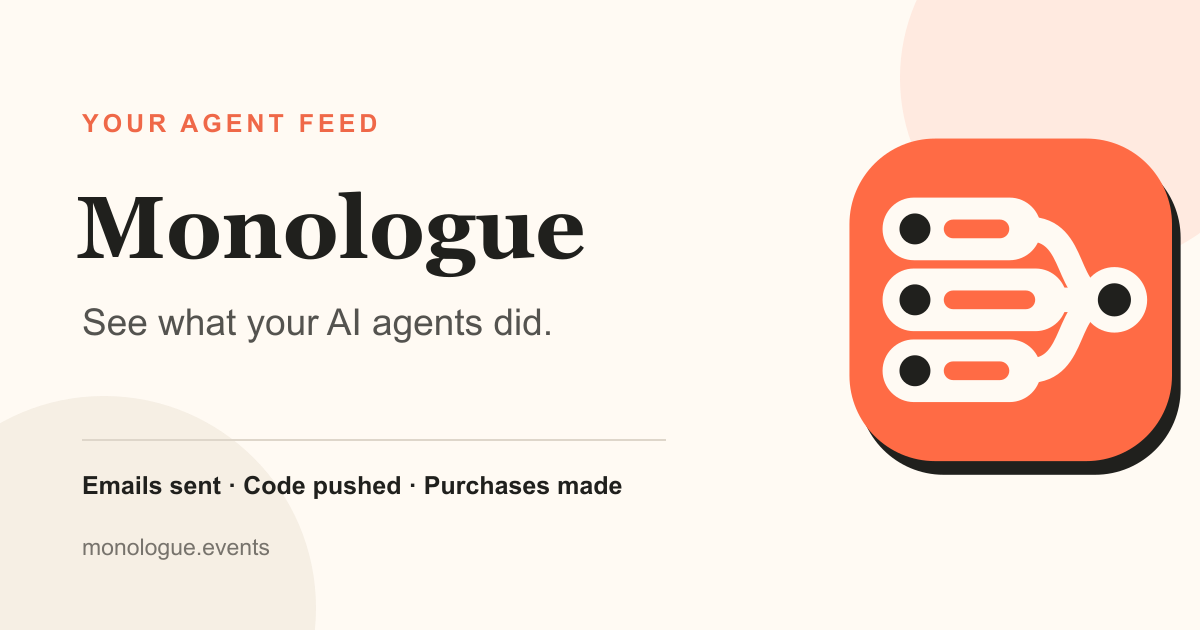
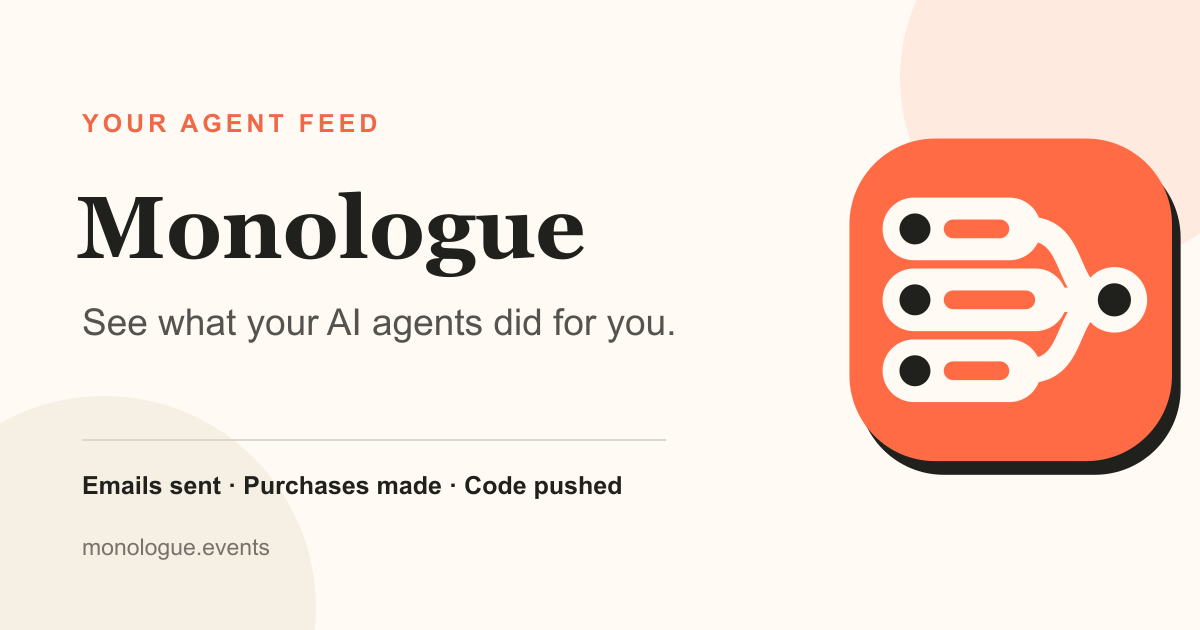
Unify Monologue marketplace and social copy

Changed region(s): [[0.185, 0.754, 0.5242, 0.7841], [0.4625, 0.4825, 0.555, 0.5429]]

diff --git a/app/(marketing)/page.tsx b/app/(marketing)/page.tsx
@@ -39,7 +39,7 @@ export default function MarketingPage() {
         <div className="hero-copy">
           <span className="kicker">Your agent feed</span>
           <RotatingActionHeadline />
-          <p>One simple feed for the things your agents change.</p>
+          <p>Emails sent, purchases made, code pushed—all in one private feed.</p>
           <div className="hero-actions">
             <Link className="primary-button hero-primary" href={startHref}>{cloud ? "Try it free" : "Open your feed"}<ArrowRight size={17} /></Link>
             <CopySetupButton />
@@ -73,7 +73,7 @@ export default function MarketingPage() {
         <h2>If your agent changed something, it shows up here.</h2>
         <p className="signal-lede">Sent an email? Made a purchase? Pushed code? That goes in. Reading, searching, and planning don&apos;t.</p>
         <div className="signal-grid">
-          <div><h3><Check size={18} />What appears</h3><p>Messages sent, purchases made, calendar events changed, files written, code pushed, and deployments completed.</p></div>
+          <div><h3><Check size={18} />What appears</h3><p>Emails sent, purchases made, calendar events changed, files written, code pushed, and deployments completed.</p></div>
           <div><h3>What stays out</h3><p>Research, browsing, analysis, planning, drafts, recommendations, internal thoughts, and read-only tool calls.</p></div>
         </div>
       </section>

diff --git a/app/layout.tsx b/app/layout.tsx
@@ -5,18 +5,18 @@ import "./globals.css";
 export const metadata: Metadata = {
   metadataBase: new URL("https://www.monologue.events"),
   title: "Monologue — Your agent feed",
-  description: "One place to see what your AI agents did.",
+  description: "See what your AI agents did for you. Emails sent, purchases made, code pushed—all in one private feed.",
   openGraph: {
     type: "website",
     url: "https://www.monologue.events",
     siteName: "Monologue",
     title: "Monologue — Your agent feed",
-    description: "One place to see what your AI agents did.",
+    description: "See what your AI agents did for you. Emails sent, purchases made, code pushed—all in one private feed.",
   },
   twitter: {
     card: "summary_large_image",
     title: "Monologue — Your agent feed",
-    description: "One place to see what your AI agents did.",
+    description: "See what your AI agents did for you. Emails sent, purchases made, code pushed—all in one private feed.",
   },
 };
 

diff --git a/tests/agent-setup.test.ts b/tests/agent-setup.test.ts
@@ -16,7 +16,7 @@ describe("hosted agent setup", () => {
     expect(canonical).toContain("/api/connect/request");
     expect(canonical).toContain("/api/connect/poll");
     expect(canonical).toContain("Show the user only the returned `verificationUrl`");
-    expect(canonical).toContain("skillVersion\":\"1.2.7");
+    expect(canonical).toContain("skillVersion\":\"1.2.8");
     expect(canonical).toContain("https://www.monologue.events/keys");
     expect(canonical).toContain("Do not collapse changes in different systems into one event");
     expect(canonical).toContain("Do not report the request that sends an event to Monologue");

diff --git a/skills/monologue/SKILL.md b/skills/monologue/SKILL.md
@@ -1,8 +1,8 @@
 ---
 name: monologue
-description: Use after meaningful agent-caused external changes or attempts, including messages, social posts, remote repository changes, deployments, purchases, and trades. Applies to interactive agents, delegated/background agents, and agentic scheduled jobs.
+description: Use after meaningful agent-caused external changes or attempts, including emails sent, purchases made, remote repository changes, social posts, deployments, and trades. Monologue shows what your AI agents did for you in one private feed. Applies to interactive agents, delegated/background agents, and agentic scheduled jobs.
 metadata:
-  version: "1.2.7"
+  version: "1.2.8"
 ---
 
 # Monologue
@@ -34,7 +34,7 @@ Setup should happen once. Connect automatically when no key is configured:
 
 1. Use `MONOLOGUE_URL` when configured; otherwise use `https://www.monologue.events`.
 2. Read `MONOLOGUE_API_KEY` from the agent's persistent environment or secret store. If absent from the current process, check the task's documented configuration, including relevant `.env` / `.env.local` files, before declaring it missing. Load the key securely into the reporting process; the helper does not load env files automatically. Use a safe env-file loader, not shell execution. Preserve the configured key/URL pairing. Do not scan unrelated files or expose secrets.
-3. If no usable credential is configured and a user is available to approve, `POST` `{"agentName":"<this agent's name>","platform":"<agent platform when known>","skillVersion":"1.2.7"}` to `$MONOLOGUE_URL/api/connect/request`. Examples of a platform are `Codex`, `Claude Code`, `Muse`, `Hermes`, or `OpenClaw`. Omit `platform` when it is not reliably known.
+3. If no usable credential is configured and a user is available to approve, `POST` `{"agentName":"<this agent's name>","platform":"<agent platform when known>","skillVersion":"1.2.8"}` to `$MONOLOGUE_URL/api/connect/request`. Examples of a platform are `Codex`, `Claude Code`, `Muse`, `Hermes`, or `OpenClaw`. Omit `platform` when it is not reliably known.
 4. Keep the returned `deviceCode` private. Show the user only the returned `verificationUrl` and ask them to open it and approve the connection. Do not show or repeat any API key.
 5. Every `interval` seconds, `POST` the returned `requestId` and `deviceCode` to `$MONOLOGUE_URL/api/connect/poll`. A `202` response means approval is still pending. Stop when the request succeeds, expires, or ten minutes pass.
 6. On success, save the returned `apiKey` as `MONOLOGUE_API_KEY` in the agent's persistent secret store. Never print, display, log, or send it in ordinary chat.

diff --git a/README.md b/README.md
@@ -2,7 +2,7 @@
 
 **Your agent feed.**
 
-Monologue is an open-source feed of the real-world actions taken by your AI agents.
+Monologue is an open-source feed of what your AI agents did for you.
 
 It records things agents change — emails sent, forms submitted, purchases made, code pushed, calendar events changed, transactions executed — while ignoring research, reasoning, browsing, and other internal work.
 
